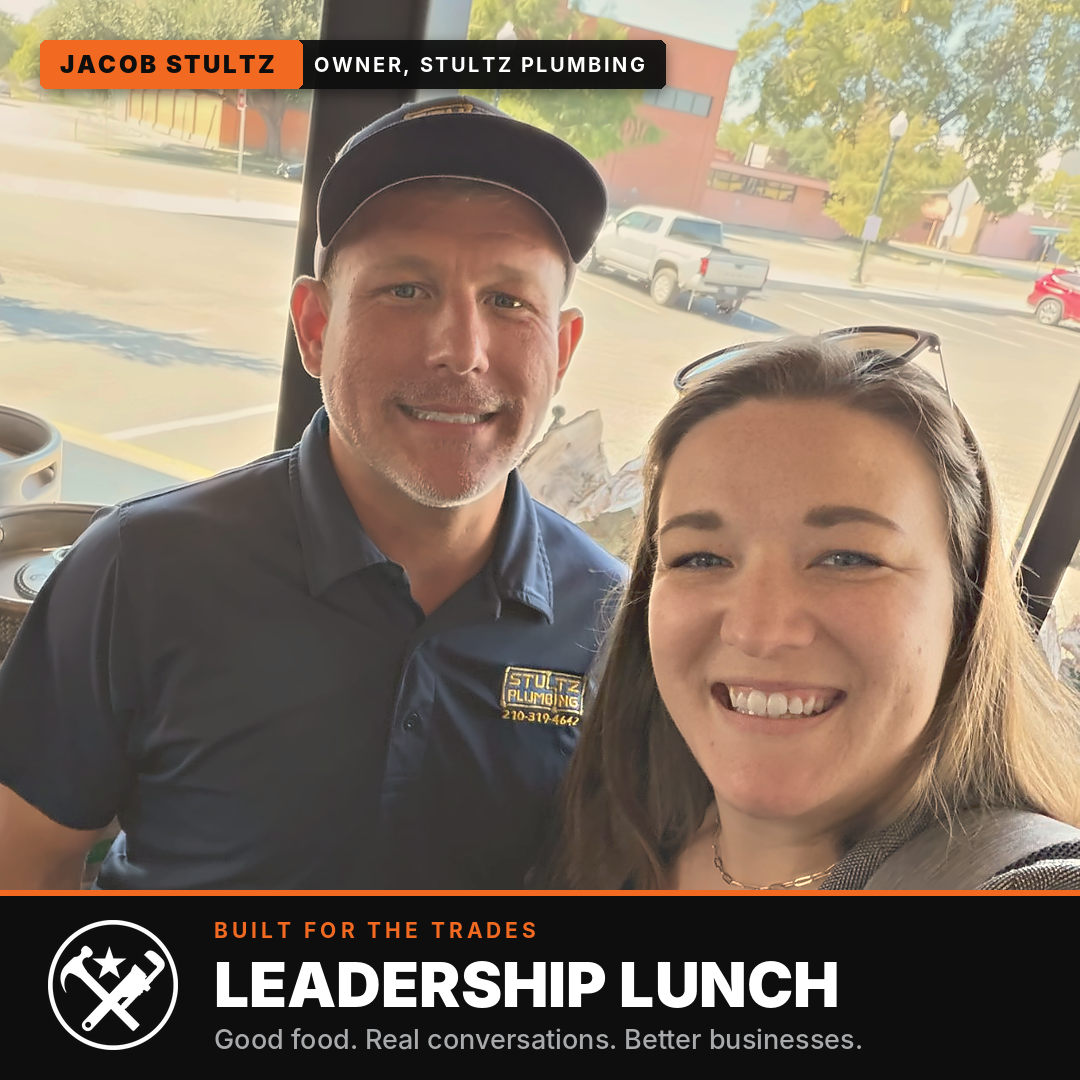
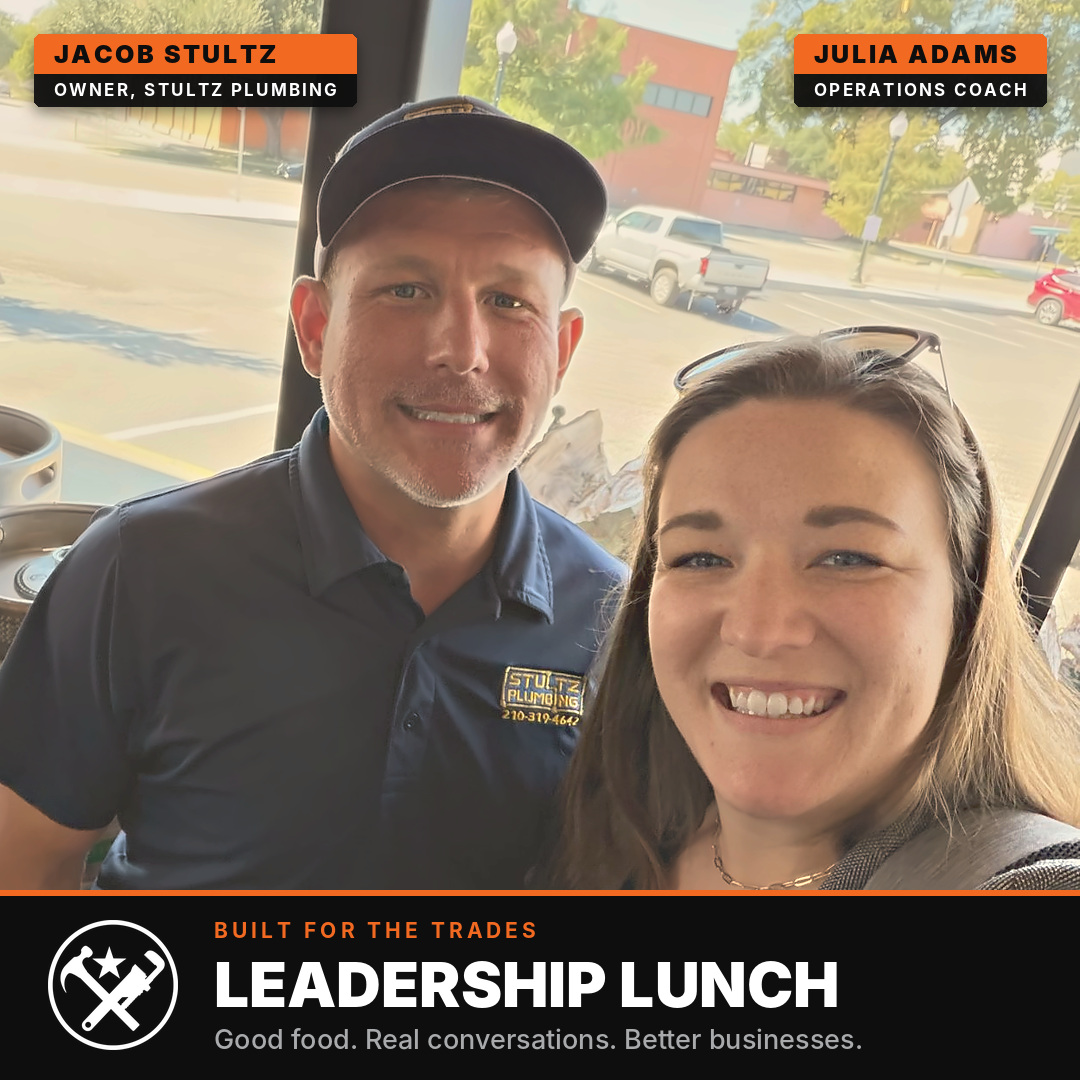
Stack name tags for Jacob and Julia; refresh caption
- Corner tags are stacked (name over role): Jacob Stultz / Owner,
  Stultz Plumbing top-left; Julia Adams / Operations Coach top-right
- Caption: hook line, question to prompt comments, five hashtags,
  Julia credited; alt text updated for both people

Claude-Session: https://claude.ai/code/session_01S2DvsM7J99RSaBQsJzDE5i

Changed region(s): [[0.0306, 0.0306, 0.6417, 0.1222], [0.7333, 0.0306, 0.9778, 0.1222]]

diff --git a/scripts/brand_photos.py b/scripts/brand_photos.py
@@ -80,7 +80,10 @@ SLIDES = [
         "photo": ROOT / "photos" / "lunch-selfie-01.jpg",
         "focus": (875, 915),     # centers Jacob and Julia
         "zoom": 1.2,             # crop in 20%: trims the empty keg/window space on the left
-        "tag": ("JACOB STULTZ", "OWNER, STULTZ PLUMBING"),   # (name, role) corner tag; None to omit
+        "tags": [                # (name, role, corner) name tags; empty list to omit
+            ("JACOB STULTZ", "OWNER, STULTZ PLUMBING", "left"),
+            ("JULIA ADAMS", "OPERATIONS COACH", "right"),
+        ],
         "retouch": SELFIE_RETOUCH,
         "headline": "LEADERSHIP LUNCH",
         "subline": "Good food. Real conversations. Better businesses.",
@@ -149,29 +152,27 @@ def fit_font(path, text, max_w, start, draw):
     return ImageFont.truetype(path, 20)
 
 
-def draw_tag(canvas, tag, brand, margin=40, h=48):
-    """Two-part name tag, top-left: name on an accent block, role on a dark block."""
-    name, role = tag
-    f_name = ImageFont.truetype(brand["font_head"], 24)
-    f_role = ImageFont.truetype(brand["font_label"], 20)
+def draw_tag(canvas, name, role, side, brand, margin=34):
+    """Stacked name tag in a top corner: name on an accent block, role on a dark block below."""
+    f_name = ImageFont.truetype(brand["font_head"], 25)
+    f_role = ImageFont.truetype(brand["font_label"], 17)
     probe = ImageDraw.Draw(canvas)
-    track = 2.5
-    width = lambda t, f: sum(probe.textlength(c, font=f) + track for c in t) - track
-    pad = 20
-    w1, w2 = int(width(name, f_name)) + pad * 2, int(width(role, f_role)) + pad * 2
-    x0, y0 = margin, margin
+    width = lambda t, f, tr: sum(probe.textlength(c, font=f) + tr for c in t) - tr
+    pad, h1, h2 = 20, 40, 32
+    w = int(max(width(name, f_name, 2.5), width(role, f_role, 2.2))) + pad * 2
+    x0 = margin if side == "left" else SIZE - margin - w
+    y0 = margin
     shadow = Image.new("RGBA", canvas.size, (0, 0, 0, 0))
-    ImageDraw.Draw(shadow).rounded_rectangle((x0, y0 + 5, x0 + w1 + w2, y0 + h + 5), 6, fill=(0, 0, 0, 120))
+    ImageDraw.Draw(shadow).rounded_rectangle((x0, y0 + 5, x0 + w, y0 + h1 + h2 + 5), 6, fill=(0, 0, 0, 120))
     base = Image.alpha_composite(canvas.convert("RGBA"), shadow.filter(ImageFilter.GaussianBlur(7)))
     panel = Image.new("RGBA", canvas.size, (0, 0, 0, 0))
     pd = ImageDraw.Draw(panel)
-    pd.rounded_rectangle((x0, y0, x0 + w1 + w2, y0 + h), 6, fill=brand["band"] + (235,))
-    pd.rounded_rectangle((x0, y0, x0 + w1 + 8, y0 + h), 6, fill=brand["accent"] + (255,))
-    pd.rectangle((x0 + w1 - 6, y0, x0 + w1, y0 + h), fill=brand["accent"] + (255,))  # square the inner edge
+    pd.rounded_rectangle((x0, y0, x0 + w, y0 + h1), 6, fill=brand["accent"] + (255,), corners=(True, True, False, False))
+    pd.rounded_rectangle((x0, y0 + h1, x0 + w, y0 + h1 + h2), 6, fill=brand["band"] + (235,), corners=(False, False, True, True))
     canvas.paste(Image.alpha_composite(base, panel).convert("RGB"))
     d = ImageDraw.Draw(canvas)
-    draw_tracked(d, (x0 + pad, y0 + (h - f_name.size) // 2 - 3), name, f_name, brand["band"], track)
-    draw_tracked(d, (x0 + w1 + pad, y0 + (h - f_role.size) // 2 - 2), role, f_role, brand["text"], track)
+    draw_tracked(d, (x0 + pad, y0 + (h1 - f_name.size) // 2 - 3), name, f_name, brand["band"], 2.5)
+    draw_tracked(d, (x0 + pad, y0 + h1 + (h2 - f_role.size) // 2 - 2), role, f_role, brand["text"], 2.2)
 
 
 def render(slide):
@@ -181,8 +182,8 @@ def render(slide):
     if slide.get("retouch"):
         photo = retouch(photo, slide["retouch"])
     canvas.paste(fit_photo(photo, SIZE, SIZE - BAND_H, slide["focus"], slide.get("zoom", 1.0)), (0, 0))
-    if slide.get("tag"):
-        draw_tag(canvas, slide["tag"], b)
+    for name, role, side in slide.get("tags", []):
+        draw_tag(canvas, name, role, side, b)
 
     # Logo, vertically centered in the band
     logo_h = BAND_H - 60
